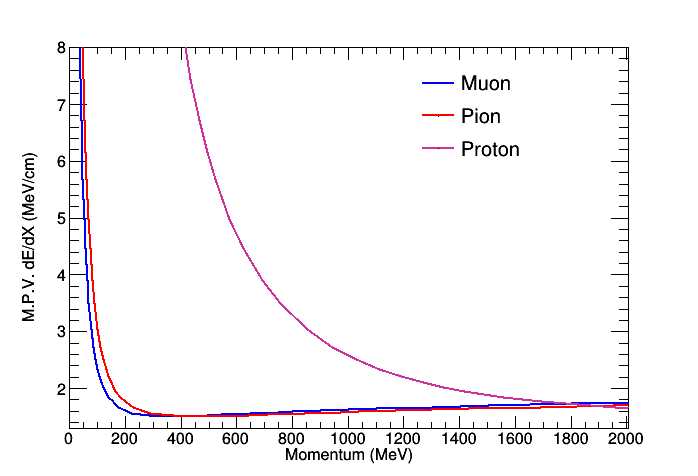
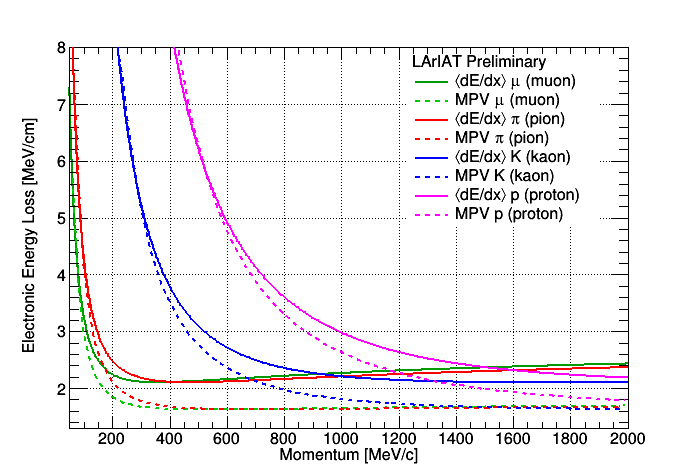
Updating note with new constants

diff --git a/section1.tex b/section1.tex
@@ -1,6 +1,6 @@
 \section{Introduction}\label{sec:Introduction}
 
-Here we present the results of the calorimetry tuning done for a sample of data and Monte Carlo spanning Run I and Run II of the LArIAT experiment. This calibration method is predicated on the Bethe-Block description of the mean rate of energy loss for various particle species. This is best represented by Figure \ref{fig:PDGEnergyLoss}, taken from the Particle Data Group \cite{PDG}.
+Here we present the results of the calorimetry tuning done for a sample of data and Monte Carlo spanning Run I and Run II of the LArIAT experiment. This calibration method is predicated on the Bethe-Bloch description of the mean rate of energy loss for various particle species. This is best represented by Figure \ref{fig:PDGEnergyLoss}, taken from the Particle Data Group \cite{PDG}.
 
 \begin{figure}[htb]
 \centering
@@ -9,12 +9,18 @@ Here we present the results of the calorimetry tuning done for a sample of data 
 \label{fig:PDGEnergyLoss}
 \end{figure}
 
-Using the tables provided by the PDG for liquid argon (\cite{PDG-Argon}), we calculate the theoretical values for pions ($\pi$), muons ($\mu$), and protons ($p$) in the momentum range most relevant for LArIAT, shown in Figure \ref{fig:PDGEnergyLossArgon}.
+Using the tables provided by the PDG for liquid argon (\cite{PDG-Argon}), we calculate the theoretical values for pions ($\pi$), muons ($\mu$), kaons ($k$) and protons ($p$) in the momentum range most relevant for LArIAT, shown in Figure \ref{fig:PDGEnergyLossArgon}. This prediction utilizes the Bethe-Bloch description of how much energy charged particles deposit corrected for the density using the Sternheimer parameterization. The most probable value is calculated as
+
+\begin{equation}
+\Delta_{p} (MPV) = \eta [ln (\frac{2 m_{e} c^2 \beta^{2} \gamma^{2}}{I}) + ln(\frac{\eta}{I}) + j - \beta^{2} - \delta(\beta \gamma)]
+\end{equation}
+
+where $\eta = \frac{1}{2} K z^2 \frac{Z x}{A \beta^2}$. Plotting $\Delta{p} / x$ shows the ``Fermi-Plateau'' for the various particles. A more in depth treatment of this function is given in \href{https://lartpc-docdb.fnal.gov/cgi-bin/private/RetrieveFile?docid=2567&filename=30June2017_Presentation_corrected.pdf&version=4}{docDB-2567}
 
 \begin{figure}[htb]
 \centering
-\includegraphics[width=0.50\textwidth]{images/dEdXvsMomentumTemplate}
-\caption{Mean energy loss for pions, muons, and protons in liquid argon over the momentum range most relvant for LArIAT.}
+\includegraphics[width=0.60\textwidth]{images/dEdXvsMomentumTemplate}
+\caption{Mean energy loss (solid line) and most probable value (dashed line) for pions, muons, kaons, and protons in liquid argon over the momentum range most relevant for LArIAT.}
 \label{fig:PDGEnergyLossArgon}
 \end{figure}
 
@@ -37,7 +43,7 @@ The calibration procedure follows the following basic steps:
 
 We first select a sample of beamline events that correspond to either a sample of $\pi, \mu, e$ or protons. This is done by selecting based on the measured time-of-flight (TOF) and momentum. 
 
-For the calibration samples we require the tracks reconstructed in the wire chamber satisfy the criteria known as a ``picky track''. ``Picky tracks'' correspond to tracks reconstructed using hits in all four wire chambers. In these events, one and only one wire chamber track can be reconstructed per event. These tracks have a more accurate measure of the particle momentum than the ``high yield'' tracks which only require hits in three out of four of the wire chamber tracks and can have mulitple wire chamber tracks reconstructed per event. Details about wire chamber track reconstruction can be found in \cite{WCTrackReco}
+For the calibration samples we require the tracks reconstructed in the wire chamber satisfy the criteria known as a ``picky track''. ``Picky tracks'' correspond to tracks reconstructed using hits in all four wire chambers. In these events, one and only one hit in each wire chamber track can be reconstructed per event and the track satisfies a straightness requirement in the Y-Z plane. These tracks have a more accurate measure of the particle momentum than the ``high yield'' tracks which only require hits in three out of four of the wire chamber tracks and can have mulitple wire chamber tracks reconstructed per event. Details about wire chamber track reconstruction can be found in \cite{WCTrackReco}
 
 The wire chamber track is extrapolated to the front face of the LArTPC giving a $x, y$ position expected for the track in the TPC. A simple flat correction to the momentum as measured by the wire chambers due to the  energy loss by the particle as it traverses the material between the last wire chamber and the front face of the LArTPC is applied in data. 
 

diff --git a/section3.tex b/section3.tex
@@ -44,7 +44,7 @@ This sample of events was used to tune the calorimetry constants for Run-I. Afte
 
 \begin{figure}[htb]
 \centering
-\includegraphics[width=0.48\textwidth]{images/dEdXvsMomentumPosPolRun1FineBin.png}
+\includegraphics[width=0.48\textwidth]{images/dEdXvsMomentumNegPolRun1FineBin2.png}
 \includegraphics[width=0.48\textwidth]{images/dEdXNegPolRun1.png}
 \caption{(Left) dE/dX vs Momentum for Negative Polarity Picky Tracks: $\pi, \mu, e$ sample ,(Right) dE/dX for the entire sample of uniquely matched tracks in the Negative Polarity Picky Tracks: $\pi, \mu, e$ sample }
 \label{fig:Run1NegPickyTrkPiMuEResults}
@@ -193,7 +193,7 @@ The distributions here also agree with the theoretical curve for a sample of pio
 
 
 %%%%%%%%%%%%%%%%%%%%%%%%%%%%%%%%%%%%%%%%%%%%%%%%%%%%%%%
-\subsubsection{Positive Polarity Picky Tracks: Proton}\label{sec:Run2PosPickyTrkPiMuE}
+\subsubsection{Positive Polarity Picky Tracks: Proton}\label{sec:Run2PosPickyTrkProton}
 %%%%%%%%%%%%%%%%%%%%%%%%%%%%%%%%%%%%%%%%%%%%%%%%%%%%%%%
 
 As a final cross-check for Run-2, a sample of protons is selected from the positive polarity picky track sample using the mass cut described in Section \ref{sec:EventSelection} using the same calibration constants derived in Section \ref{sec:Run2PosPickyTrkPiMuE}. The outcome of the calibration sample is shown in Figure \ref{fig:Run2PosPickyTrkProtonResults}.

diff --git a/section4.tex b/section4.tex
@@ -1,6 +1,6 @@
 \section{Conclusions}\label{sec:Conclusion}
 
-The calibration of LArIAT's data and Monte Carlo samples over the Run-I and Run-II periods using the Bethe-Block description of the mean rate of energy loss for various particle species allows us to calibrate the dE/dX response for various samples.
+The calibration of LArIAT's data and Monte Carlo samples over the Run-I and Run-II periods using the Bethe-Bloch description of the mean rate of energy loss for various particle species allows us to calibrate the dE/dX response for various samples.
 
 In this note, we showed the calibration using negative and positive polarity data for samples of $\pi, \mu, e$ and protons and cosmic rays as well using pion and proton Monte Carlo.
 

diff --git a/main.tex b/main.tex
@@ -81,7 +81,7 @@
 \titlefoot{Yale University\label{Yale}}
 %\vspace{-0.1cm}
 
-\Aname{G. Pullium}{Syracuse},
+\Aname{G. Pulliam}{Syracuse},
 
 \titlefoot{Syracuse University\label{Syracuse}}
 %\vspace{-0.1cm}
